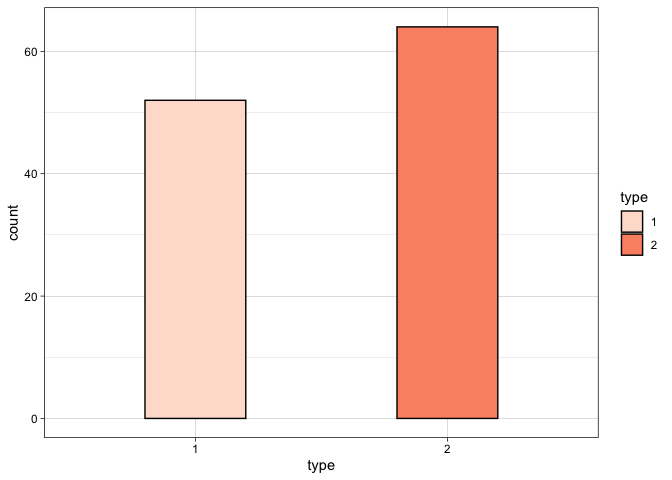
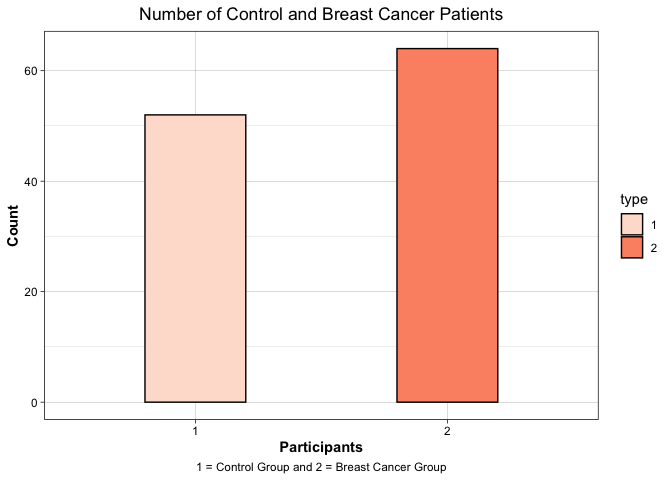
push

diff --git a/Breast-Cancer-ML-Classfication-Linear-Discriminant-Analysis.md b/Breast-Cancer-ML-Classfication-Linear-Discriminant-Analysis.md
@@ -246,7 +246,14 @@ summary(data2)
 ggplot(data2, aes(type, fill= type)) +
   geom_bar(width = .4, color='black') +
   theme_linedraw() +
- scale_fill_brewer(palette="Reds")
+ scale_fill_brewer(palette="Reds") +
+  labs(title = 'Number of Control and Breast Cancer Patients',
+       x = 'Participants',
+       caption = '1 = Control Group and 2 = Breast Cancer Group',
+       y = 'Count') +
+  theme(plot.title = element_text(hjust = 0.5),
+        plot.caption = element_text(hjust = 0.5),
+        axis.title = element_text(face = "bold"))
 ```
 
 ![](Breast-Cancer-ML-Classfication-Linear-Discriminant-Analysis_files/figure-gfm/unnamed-chunk-7-1.png)<!-- -->
@@ -257,11 +264,6 @@ data3 <- data2 %>%
   summarise(across(everything(), mean),
             .groups = 'drop') %>%
   as.data.frame()
-
-# data4 <- t(data3) %>%
-#   as.data.frame() %>%
-#   rename(1 = 'V1',
-#          2 = 'V2')
 ```
 
 ``` r
